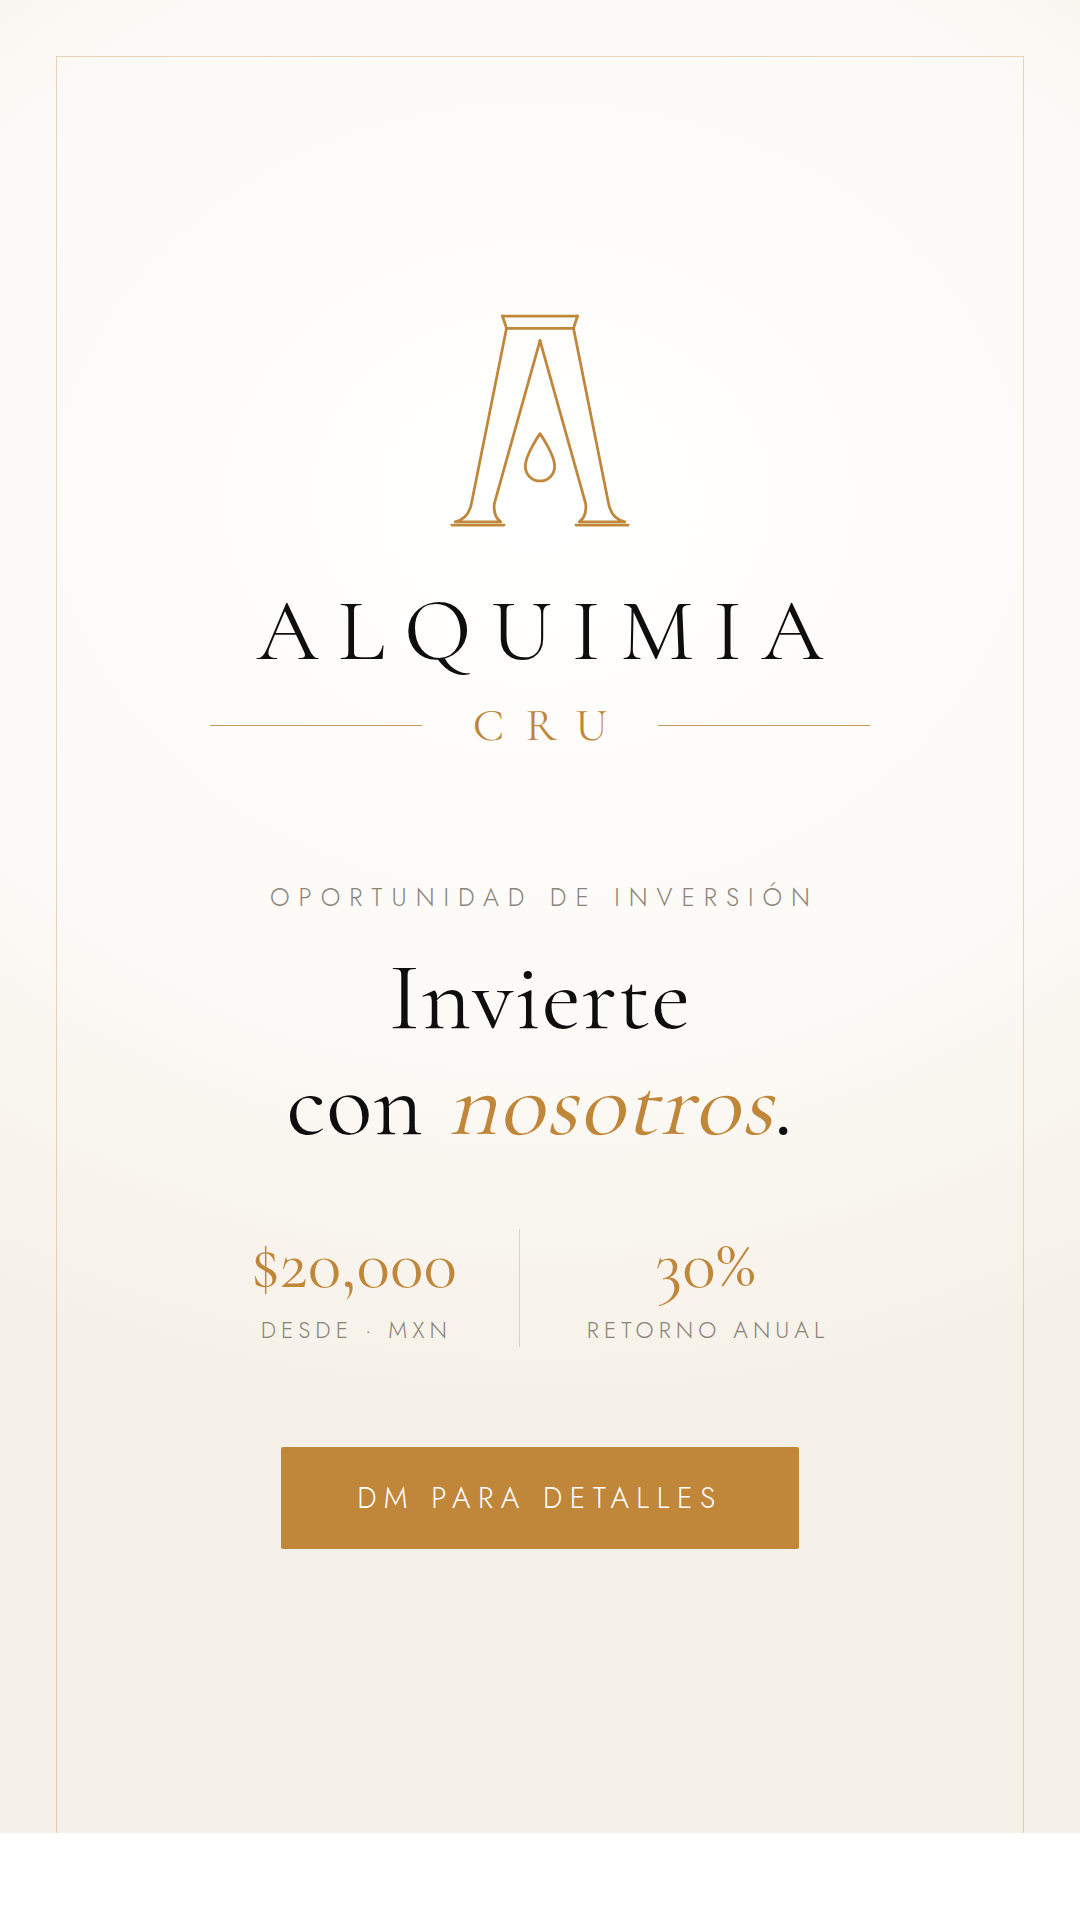
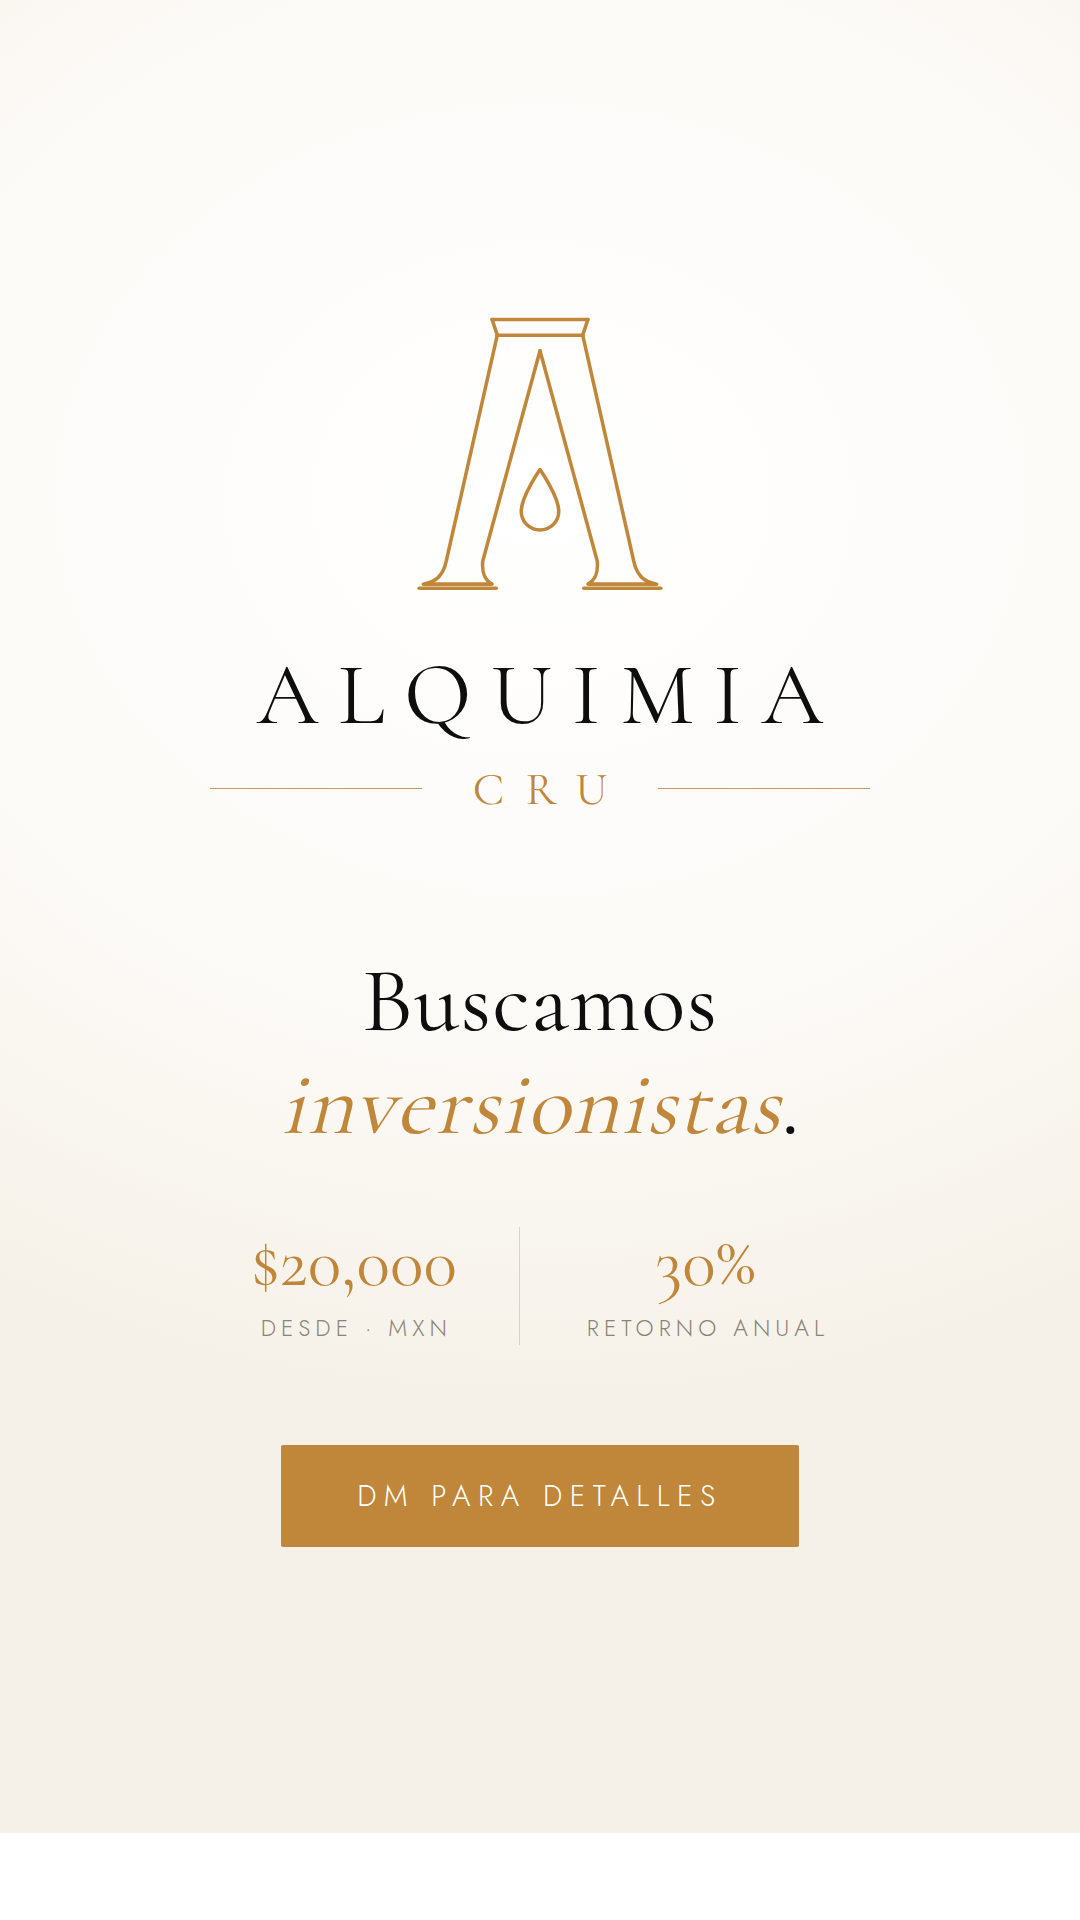
Aplica los ajustes recomendados al borrador
- Quita el marco dorado del borde
- Amplia el emblema y abre mas las patas, mas fiel al logo
- Sustituye el titular por "Buscamos inversionistas" y elimina el
  antetitulo, que era redundante

Sincroniza assets/brand/emblema.svg y el prompt de nano banana pro con
los mismos cambios.

Claude-Session: https://claude.ai/code/session_01FjaUofS9fVeb1cD7zcn1yi

diff --git a/src/borrador-alquimia.html b/src/borrador-alquimia.html
@@ -16,14 +16,12 @@ html,body{width:1080px;height:1920px;overflow:hidden}
 body{font-family:'Jost',sans-serif;background:var(--papel);color:var(--tinta);position:relative}
 .bg{position:absolute;inset:0;background:
   radial-gradient(1100px 900px at 50% 26%, #FFFFFF 0%, #FCFAF6 62%, #F6F1E8 100%)}
-/* marco fino dorado */
-.frame{position:absolute;inset:56px;border:1px solid rgba(192,135,59,.32)}
 
 .wrap{position:absolute;inset:0;padding:230px 130px 290px;
   display:flex;flex-direction:column;align-items:center;justify-content:center;text-align:center}
 
 /* ── Lockup de marca ─────────────────── */
-.emblema{width:196px;height:224px}
+.emblema{width:250px;height:286px}
 .wordmark{margin-top:52px;font-family:'Cormorant',serif;font-weight:400;
   font-size:88px;line-height:1;letter-spacing:.22em;text-indent:.22em;color:var(--tinta)}
 .cru{margin-top:22px;display:flex;align-items:center;gap:30px;width:660px}
@@ -34,8 +32,8 @@ body{font-family:'Jost',sans-serif;background:var(--papel);color:var(--tinta);po
 /* ── Mensaje ─────────────────────────── */
 .eyebrow{margin-top:126px;font-size:25px;font-weight:500;letter-spacing:.36em;
   text-indent:.36em;color:var(--gris);text-transform:uppercase}
-.msg{margin-top:30px;font-family:'Cormorant',serif;font-weight:400;
-  font-size:96px;line-height:1.1;letter-spacing:.01em}
+.msg{margin-top:132px;font-family:'Cormorant',serif;font-weight:400;
+  font-size:92px;line-height:1.12;letter-spacing:.01em}
 .msg em{font-style:italic;color:var(--oro)}
 
 .facts{margin-top:72px;display:flex;align-items:center}
@@ -52,16 +50,15 @@ body{font-family:'Jost',sans-serif;background:var(--papel);color:var(--tinta);po
 </style>
 
 <div class="bg"></div>
-<div class="frame"></div>
 
 <div class="wrap">
   <svg class="emblema" viewBox="0 0 240 274" fill="none">
     <g stroke="#C0873B" stroke-width="3.4" stroke-linejoin="round" stroke-linecap="round">
       <path d="M74 6 H166"/><path d="M79 21 H161"/>
       <path d="M74 6 L79 21"/><path d="M166 6 L161 21"/>
-      <path d="M79 21 L36 236 C33 250 26 256 16 258 H72 C66 254 63 248 64 236 L120 36"/>
-      <path d="M161 21 L204 236 C207 250 214 256 224 258 H168 C174 254 177 248 176 236 L120 36"/>
-      <path d="M12 262 H76"/><path d="M164 262 H228"/>
+      <path d="M79 21 L30 238 C27 252 20 258 8 260 H74 C67 256 64 250 65 238 L120 36"/>
+      <path d="M161 21 L210 238 C213 252 220 258 232 260 H166 C173 256 176 250 175 238 L120 36"/>
+      <path d="M4 264 H78"/><path d="M162 264 H236"/>
       <path d="M120 150 C120 150 138 176 138 190 C138 200 130 208 120 208 C110 208 102 200 102 190 C102 176 120 150 120 150 Z"/>
     </g>
   </svg>
@@ -69,8 +66,7 @@ body{font-family:'Jost',sans-serif;background:var(--papel);color:var(--tinta);po
   <div class="wordmark">ALQUIMIA</div>
   <div class="cru"><i></i><span>CRU</span><i></i></div>
 
-  <div class="eyebrow">Oportunidad de inversión</div>
-  <div class="msg">Invierte<br>con <em>nosotros</em>.</div>
+  <div class="msg">Buscamos<br><em>inversionistas</em>.</div>
 
   <div class="facts">
     <div class="fact">
